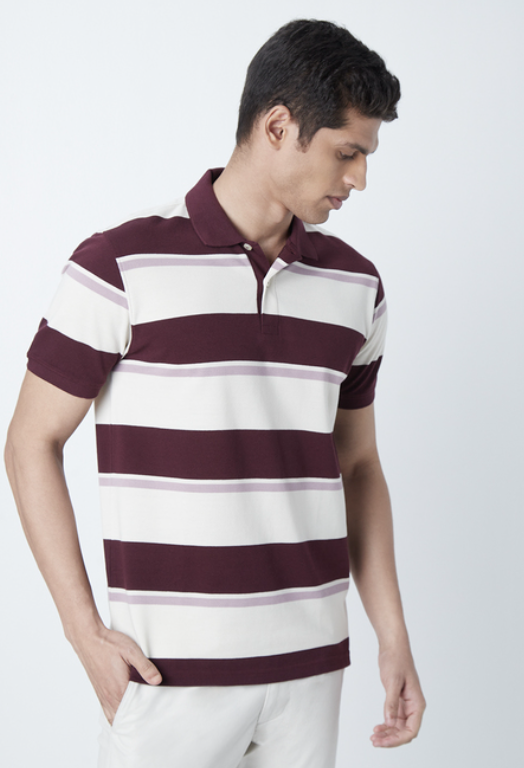
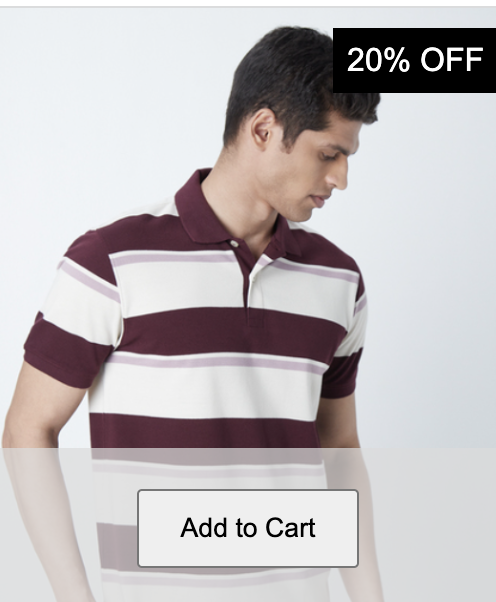
commit

diff --git a/journal/html-css/html-css.html b/journal/html-css/html-css.html
@@ -183,5 +183,38 @@
 
       <img src="./imgs/discord-double-sidebar.png" alt="" />
     </article>
+
+    <article>
+      <h2>14/04/2023 (Friday) - Position relative/absolute</h2>
+      <p>
+        Today's lesson is dedicated to positioning elements on top of other
+        elements. The example below shows a t-shirt for sale. My task was to add
+        and position a "20% OFF" element at the top-right corner and an "Add to
+        cart" button at the bottom of the product image.
+      </p>
+      <p>
+        To achieve this, I created a container called "product" and set its
+        position property to "relative". This allowed me to use absolute
+        positioning for its child elements, the "discount" element and the
+        "button-container". By setting the position property of the "discount"
+        element to "absolute" and specifying "right: 0" and "top: 10px", I was
+        able to position it at the top-right corner of the product container.
+      </p>
+      <p>
+        Next, I added a "button-container" div and set its position property to
+        "absolute" as well. To position it at the bottom of the product
+        container, I set the "bottom" property to 0 and used "left: 0" and
+        "right: 0" to stretch it across the full width of the container. Inside
+        the "button-container", I used flexbox properties to center the "Add to
+        Cart" button both horizontally and vertically.
+      </p>
+      <p>
+        In conclusion, by combining the relative and absolute positioning
+        properties, I was able to create a visually appealing product layout
+        with overlaid elements, showcasing the power and flexibility of CSS
+        positioning techniques.
+      </p>
+      <img src="/journal/html-css/imgs/t-shirt.png" alt="" />
+    </article>
   </body>
 </html>
